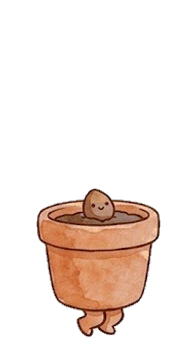
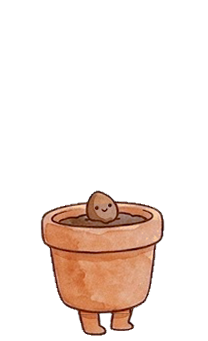
Pianty: passo generato muovendo solo le gambe (7 immagini per stadio)
Il foglio di Gemini aveva un ciclo a scatti (gambe aperte/chiuse) e la rosetta cambiava da un
fotogramma all'altro. Ora si usa il disegno fermo di ogni stadio e tools/cutout_pianty.py genera 6
fotogrammi di passo muovendo solo le gambe: la pianta resta identica, il piede appoggiato scivola
indietro e quello che avanza si solleva. Pet.stepInterval permette un passo a 15 fotogrammi al secondo;
tolleranza di 5 ms nel cambio fotogramma per non cadere sul bordo dei tick del timer.

Changed region(s): [[0.1837, 0.5279, 0.8265, 0.9971]]

diff --git a/Sources/Bonsy/Pet.swift b/Sources/Bonsy/Pet.swift
@@ -26,6 +26,8 @@ struct Pet: Equatable {
     var walks: Bool = false
     /// Per chi cammina: la sequenza di immagini (indici) da ripetere mentre cammina.
     var walkFrames: [Int] = [1, 2]
+    /// Per chi cammina: secondi tra un fotogramma del passo e il successivo.
+    var stepInterval: TimeInterval = 0.2
     /// Per chi cammina: la posa mentre parla (nil = resta ferma nella posa a riposo).
     var talkFrame: Int? = nil
     /// Le immagini guardano a destra: quando va a sinistra vengono specchiate.
@@ -91,24 +93,26 @@ struct Pet: Equatable {
         iconCrop: nil
     )
 
-    /// Una succulenta che cresce come Bonsy e ne condivide le frasi, ma ha due piedini e cammina:
-    /// per ognuno dei 5 stadi ci sono 5 fotogrammi (fermo, passo, passaggio, passo, passaggio).
+    /// Una succulenta che cresce come Bonsy e ne condivide le frasi, ma ha due piedini e cammina.
+    /// Per ognuno dei 5 stadi ci sono 7 immagini: la prima è "fermo", le altre 6 sono il ciclo dei passi
+    /// (generato da tools/cutout_pianty.py muovendo solo le gambe, così la pianta resta identica).
     static let pianty = Pet(
         id: "pianty",
         name: "Pianty",
-        imageResources: (1...5).flatMap { stage in (1...5).map { "pianty_stage\(stage)_\($0)" } },
-        size: NSSize(width: 80, height: 140),
+        imageResources: (1...5).flatMap { stage in (1...7).map { "pianty_stage\(stage)_\($0)" } },
+        size: NSSize(width: 84, height: 141),
         quotesResource: "frasi_bonsy",
         quotesUserFile: "frasi_bonsy.txt",
         fallbackQuote: "Un passo alla volta: anch'io sono partito da un seme.",
         greeting: "Ciao! Sono Pianty. Cresciamo insieme, con calma.",
         shadowWidthFraction: 0.6,
-        groundFraction: 0.0146,
+        groundFraction: 0.0176,
         iconCrop: nil,
         walks: true,
-        walkFrames: [1, 2, 3, 4],   // passo, passaggio, passo, passaggio
+        walkFrames: [1, 2, 3, 4, 5, 6],
+        stepInterval: 1.0 / 15,     // 6 fotogrammi in 0,4 s: il piede appoggiato non scivola a 42 pt/s
         facesRight: true,           // i passi sono disegnati verso destra: a sinistra si specchia
-        framesPerStage: 5
+        framesPerStage: 7
     )
 
     /// Prova: stesse cose di Spidy (stesse frasi), ma cammina per lo schermo.

diff --git a/Sources/Bonsy/Walker.swift b/Sources/Bonsy/Walker.swift
@@ -14,7 +14,9 @@ final class Walker {
 
     // Camminata
     private static let speed: CGFloat = 42                       // punti al secondo
-    private static let stepInterval: TimeInterval = 0.2          // cambio fotogramma del passo
+    /// Tolleranza (in secondi) sul cambio di fotogramma: con un passo di esattamente due tick del timer
+    /// (1/30 s ciascuno) il cambio cadrebbe sul bordo e a volte durerebbe uno o tre tick invece di due.
+    private static let stepSlack: TimeInterval = 0.005
     private static let edgeMargin: CGFloat = 6
     private static let walkDuration: ClosedRange<TimeInterval> = 3...8
     private static let restDuration: ClosedRange<TimeInterval> = 4...10
@@ -234,7 +236,7 @@ final class Walker {
         // Passi: i fotogrammi del cammino si ripetono in ciclo.
         stepClock += dt
         let frames = pet.walkFrames
-        petWindow.setPose(frames[Int(stepClock / Self.stepInterval) % frames.count])
+        petWindow.setPose(frames[Int((stepClock + Self.stepSlack) / pet.stepInterval) % frames.count])
 
         if now >= until {
             state = .resting(until: now.addingTimeInterval(.random(in: Self.restDuration)))

diff --git a/tools/cutout_pianty.py b/tools/cutout_pianty.py
@@ -1,23 +1,26 @@
 #!/usr/bin/env python3
-"""Ritaglia Pianty che cammina: assets/pianty/sheets/stage1..5.png -> assets/pianty/stage{S}_{F}.png
+"""Pianty che cammina: assets/pianty/sheets/stage1..5.png -> assets/pianty/stage{S}_{F}.png
 
-Ogni tavola ha un solo stadio di crescita con 5 fotogrammi in fila (fermo, passo, passaggio, passo,
-passaggio). Qui si tolgono lo sfondo bianco e le sacche di bianco fra le foglie, e si porta tutto
-sulla stessa scala e sullo stesso colore:
+Ogni tavola ha un solo stadio di crescita (un vaso con due piedini). Di ogni tavola si usa il
+primo fotogramma, "fermo". Da lì:
 
-* la scala si ricava dal vaso (larghezza e altezza dal bordo ai piedi), con lo stadio 5 come
-  riferimento: Gemini disegna il vaso un po' diverso da una tavola all'altra;
-* il colore della terracotta è riportato su un valore unico (un guadagno per canale per tavola);
-* tutti i 25 fotogrammi stanno su una tela comune, appoggiati sui piedi e centrati sul vaso,
-  così cambiando fotogramma o stadio nulla "salta".
+1. si tolgono lo sfondo bianco e le sacche di bianco fra le foglie;
+2. si portano tutti gli stadi sulla stessa scala (dal vaso, con lo stadio 5 come riferimento: Gemini
+   disegna il vaso un po' diverso da una tavola all'altra) e sullo stesso colore di terracotta;
+3. si genera il passo muovendo solo le gambe: la pianta e il vaso sono sempre lo stesso disegno, quindi
+   le foglie non cambiano da un fotogramma all'altro.
+
+Per ogni stadio escono 7 immagini: _1 = fermo, _2.._7 = i 6 fotogrammi del ciclo di passi.
+Tutte hanno la stessa tela, appoggiata sui piedi e centrata sul vaso.
 """
 from collections import deque
+import math
 import numpy as np
 from PIL import Image
 
 SHEET = "assets/pianty/sheets/stage{}.png"
 OUT = "assets/pianty/stage{}_{}.png"
-STAGES, FRAMES = 5, 5
+STAGES, SHEET_FRAMES = 5, 5
 REFERENCE_STAGE = 5
 BG_MIN = 246          # sopra questo (canale minimo) un pixel è sfondo bianco
 HALO_MIN = 205        # lungo il bordo, i pixel più chiari di così diventano trasparenti
@@ -25,6 +28,18 @@ MIN_POCKET = 40       # sacche di bianco più piccole di così sono riflessi, no
 PAD = 4
 TERRACOTTA = np.array([216.0, 144.0, 104.0])   # colore comune del vaso
 
+# Il passo (in pixel dell'immagine). Va con Walker: a 42 pt/s e ~0,4 pt per pixel il corpo avanza di
+# circa 105 px/s, e con un ciclo di 6 fotogrammi a 15 al secondo il piede appoggiato non scivola.
+CYCLE = 6
+STRIDE = 10.0         # quanto il piede va avanti e indietro rispetto al vaso
+LIFT = 4.0            # quanto si solleva il piede mentre va avanti
+TILT = 1.5            # gradi di dondolio del vaso
+BOB = 1.0             # rimbalzo del vaso
+EXT = 10              # la gamba si prolunga sotto il vaso, così non resta un buco quando si muove
+EXTRA = 24            # spazio in più nella tela di lavoro
+
+
+# ----- ritaglio dallo sfondo bianco -----
 
 def dilate(mask, n):
     out = mask.copy()
@@ -79,7 +94,7 @@ def load_sheet(path):
     rgb = np.asarray(Image.open(path).convert("RGB")).astype(np.float32)
     minc = rgb.min(axis=2)
     frames = []
-    for gx0, gx1 in column_groups(minc, FRAMES):
+    for gx0, gx1 in column_groups(minc, SHEET_FRAMES):
         x0, x1 = max(gx0 - 6, 0), min(gx1 + 6, rgb.shape[1] - 1)
         block = rgb[:, x0:x1 + 1, :]
         bmin = minc[:, x0:x1 + 1]
@@ -99,6 +114,7 @@ def load_sheet(path):
             seen |= comp
             if comp.sum() >= MIN_POCKET:
                 bg |= comp
+
         # Alone: i pixel chiari lungo il bordo sono sfumature fra il tratto scuro e il bianco, non disegno.
         halo = ~bg & dilate(bg, 2) & (bmin > HALO_MIN)
         bg = bg | halo
@@ -136,6 +152,104 @@ def to_rgba(f, gain):
     return np.dstack([color, alpha * 255]).astype(np.uint8)
 
 
+# ----- il passo -----
+
+def runs(row, thr=60):
+    cols = np.where(row > thr)[0]
+    out = []
+    if len(cols) == 0:
+        return out
+    s = p = cols[0]
+    for c in cols[1:]:
+        if c - p > 1:
+            out.append((int(s), int(p)))
+            s = c
+        p = c
+    out.append((int(s), int(p)))
+    return out
+
+
+def find_legs(arr):
+    """Ritorna (riga più bassa, prima riga con due gambe separate, colonna che le divide)."""
+    a = arr[..., 3]
+    bottom = int(np.where((a > 80).any(axis=1))[0].max())
+    y = bottom - 4
+    while y > 0 and len(runs(a[y])) >= 2:
+        y -= 1
+    y0 = y + 1
+    r = runs(a[y0 + 4])
+    return bottom, y0, (r[0][1] + r[-1][0]) / 2.0
+
+
+def leg_images(arr, y0, bottom, split):
+    h, w = arr.shape[:2]
+    out = []
+    for side in (0, 1):
+        seg = arr[y0:bottom + 1].copy()
+        cols = np.arange(w)[None, :]
+        mask = (cols < split) if side == 0 else (cols >= split)
+        seg[~np.broadcast_to(mask, seg.shape[:2])] = 0
+        xs = np.where((seg[..., 3] > 0).any(axis=0))[0]
+        x0, x1 = int(xs.min()), int(xs.max())
+        seg = seg[:, x0:x1 + 1]
+        img = np.vstack([np.repeat(seg[:1], EXT, axis=0), seg])   # prolungata verso l'alto, sotto il vaso
+        top_cols = np.where(seg[:4, :, 3] > 60)[1]
+        out.append((Image.fromarray(img, "RGBA"), x0, float(top_cols.mean()) + x0))
+    return out
+
+
+def foot(q):
+    """q in [0,1): fase della gamba. Ritorna (spostamento in x, sollevamento)."""
+    if q < 0.5:                      # appoggiata: il piede scivola indietro rispetto al corpo
+        u = q / 0.5
+        return STRIDE * (1 - 2 * u), 0.0
+    u = (q - 0.5) / 0.5              # in volo: va avanti, sollevato
+    e = 0.5 - 0.5 * math.cos(math.pi * u)
+    return -STRIDE + 2 * STRIDE * e, LIFT * math.sin(math.pi * u)
+
+
+def shear_leg(limg, dx, lift):
+    """Sposta il piede di dx tenendo ferma la cima (taglio orizzontale: la suola resta piatta) e lo
+    solleva comprimendo la gamba in verticale."""
+    w, h = limg.size
+    hip = EXT
+    length = max(h - hip, 1)
+    s = length / max(length - lift, 1)
+    pad = 24
+    big = Image.new("RGBA", (w + 2 * pad, h + 2 * pad), (0, 0, 0, 0))
+    big.paste(limg, (pad, pad))
+    hy = hip + pad
+    coeffs = (1.0, -dx / length, dx * hy / length, 0.0, s, hy - hy * s)
+    return big.transform(big.size, Image.AFFINE, coeffs, resample=Image.BICUBIC), pad
+
+
+def walk_frame(arr, k):
+    h, w = arr.shape[:2]
+    bottom, y0, split = find_legs(arr)
+    legs = leg_images(arr, y0, bottom, split)
+    body = arr.copy()
+    body[y0:] = 0
+    body = Image.fromarray(body, "RGBA")
+
+    canvas = Image.new("RGBA", (w, h), (0, 0, 0, 0))
+    for idx, (limg, x0, _hip_x) in enumerate(legs):
+        q = (k / CYCLE + (0.5 if idx == 1 else 0.0)) % 1.0
+        dx, lift = foot(q)
+        sheared, pad = shear_leg(limg, dx, lift)
+        layer = Image.new("RGBA", (w, h), (0, 0, 0, 0))
+        layer.paste(sheared, (int(round(x0 - pad)), int(round(y0 - EXT - pad))), sheared)
+        canvas = Image.alpha_composite(canvas, layer)
+
+    phi = 2 * math.pi * k / CYCLE
+    pivot = ((legs[0][2] + legs[1][2]) / 2.0, bottom)
+    tilted = body.rotate(TILT * math.sin(phi), resample=Image.BICUBIC, center=pivot)
+    layer = Image.new("RGBA", (w, h), (0, 0, 0, 0))
+    layer.paste(tilted, (0, -int(round(BOB * abs(math.sin(phi))))), tilted)
+    return Image.alpha_composite(canvas, layer)
+
+
+# ----- tutto insieme -----
+
 def main():
     sheets = {s: load_sheet(SHEET.format(s)) for s in range(1, STAGES + 1)}
 
@@ -144,7 +258,7 @@ def main():
     ref_w = np.median([f["pot_w"] for f in ref])
     ref_h = np.median([f["bottom"] - f["rim"] for f in ref])
 
-    # Colore: mediana della terracotta di ogni tavola -> guadagno verso il colore comune.
+    # Scala dal vaso; colore: mediana della terracotta di ogni tavola -> colore comune.
     scales, gains = {}, {}
     for s, frames in sheets.items():
         w = np.median([f["pot_w"] for f in frames])
@@ -153,42 +267,56 @@ def main():
         samples = []
         for f in frames:
             rows = np.arange(f["block"].shape[0])[:, None]
-            m = f["terra"] & (rows >= f["rim"] - 25) & f["fg"]
+            m = f["terra"] & (f["rim"] - 25 <= rows) & f["fg"]
             samples.append(f["block"][m])
         median = np.median(np.concatenate(samples), axis=0)
         gains[s] = TERRACOTTA / median
         print(f"stadio {s}: vaso {w:.0f}x{h:.0f} -> scala {scales[s]:.3f}, "
               f"colore {median.astype(int).tolist()} -> {TERRACOTTA.astype(int).tolist()}")
 
-    # Ritaglio, scala e misure rispetto ai piedi (riga più bassa) e al centro del vaso.
-    images = {}
+    # Il fotogramma "fermo" di ogni stadio, in scala, su una tela di lavoro comune (piedi e centro del vaso).
+    rests = {}
     for s, frames in sheets.items():
-        for i, f in enumerate(frames, 1):
-            rgba = Image.fromarray(to_rgba(f, gains[s]), "RGBA")
-            k = scales[s]
-            rgba = rgba.resize((round(rgba.width * k), round(rgba.height * k)), Image.LANCZOS)
-            a = np.asarray(rgba)[..., 3]
-            ys, xs = np.where(a > 5)
-            solid = np.where((a > 80).any(axis=1))[0]
-            ground = int(solid.max())
-            cx = f["cx"] * k
-            images[(s, i)] = dict(
-                img=rgba, ground=ground, cx=cx,
-                up=ground - ys.min(), down=max(ys.max() - ground, 0),
-                left=cx - xs.min(), right=xs.max() - cx,
-            )
+        f = frames[0]
+        rgba = Image.fromarray(to_rgba(f, gains[s]), "RGBA")
+        k = scales[s]
+        rgba = rgba.resize((round(rgba.width * k), round(rgba.height * k)), Image.LANCZOS)
+        a = np.asarray(rgba)[..., 3]
+        ground = int(np.where((a > 80).any(axis=1))[0].max())
+        rests[s] = (rgba, ground, f["cx"] * k)
 
-    up = int(max(v["up"] for v in images.values())) + PAD
-    down = int(max(v["down"] for v in images.values())) + PAD
-    half = int(np.ceil(max(max(v["left"], v["right"]) for v in images.values()))) + PAD
+    half0 = int(max(max(c, img.width - c) for img, _, c in rests.values())) + EXTRA
+    up0 = int(max(g for _, g, _ in rests.values())) + EXTRA
+    down0 = int(max(img.height - g for img, g, _ in rests.values())) + EXTRA
+    cw0, ch0 = 2 * half0, up0 + down0 + 1
+
+    frames_out = {}
+    for s, (img, ground, cx) in rests.items():
+        canvas = Image.new("RGBA", (cw0, ch0), (0, 0, 0, 0))
+        canvas.paste(img, (int(round(half0 - cx)), int(up0 - ground)), img)
+        arr = np.asarray(canvas).copy()
+        frames_out[s] = [canvas] + [walk_frame(arr, k) for k in range(CYCLE)]
+
+    # Misure finali: l'unione di tutti i fotogrammi, con un piccolo margine.
+    top = bottom = left = right = None
+    for fs in frames_out.values():
+        for f in fs:
+            ys, xs = np.where(np.asarray(f)[..., 3] > 5)
+            t, b, l, r = ys.min(), ys.max(), xs.min(), xs.max()
+            top = t if top is None else min(top, t)
+            bottom = b if bottom is None else max(bottom, b)
+            left = l if left is None else min(left, l)
+            right = r if right is None else max(right, r)
+    half = int(math.ceil(max(half0 - left, right - half0 + 1))) + PAD
+    up = up0 - top + PAD
+    down = max(bottom - up0, 0) + PAD
     cw, ch = 2 * half, up + down + 1
     print(f"formato comune: {cw}x{ch}  (piedi a riga {up}, {(down + 1) / ch:.4f} dal fondo)")
 
-    for (s, i), v in images.items():
-        canvas = Image.new("RGBA", (cw, ch), (0, 0, 0, 0))
-        canvas.paste(v["img"], (int(round(half - v["cx"])), int(up - v["ground"])), v["img"])
-        canvas.save(OUT.format(s, i))
-    print(f"Scritti {len(images)} fotogrammi: assets/pianty/stage1_1.png ... stage5_5.png")
+    for s, fs in frames_out.items():
+        for i, f in enumerate(fs, 1):
+            f.crop((half0 - half, up0 - up, half0 + half, up0 - up + ch)).save(OUT.format(s, i))
+    print(f"Scritti {STAGES * (CYCLE + 1)} fotogrammi: assets/pianty/stage1_1.png ... stage5_{CYCLE + 1}.png")
 
 
 if __name__ == "__main__":

diff --git a/README.md b/README.md
@@ -58,9 +58,10 @@ a cui si trovano. Dal menu *Movimento ▸ Fermo* smettono di camminare e restano
 li rimette in cammino. Se le immagini guardano a destra (come il porcellino), vengono specchiate quando
 vanno a sinistra.
 
-Pianty cammina *e* cresce: per ognuno dei 5 stadi ci sono 5 fotogrammi (fermo, passo, passaggio, passo,
-passaggio), quindi mentre il focus avanza lo stadio cambia con una dissolvenza e il passo continua senza
-interruzioni. Non mangia e non dorme.
+Pianty cammina *e* cresce: per ognuno dei 5 stadi ci sono 7 immagini (fermo + 6 fotogrammi del passo, a 15
+al secondo), quindi mentre il focus avanza lo stadio cambia con una dissolvenza e il passo continua senza
+interruzioni. I passi non sono disegnati uno per uno: `tools/cutout_pianty.py` parte dal disegno fermo di ogni
+stadio e muove solo le gambe, così la pianta è identica in tutti i fotogrammi. Non mangia e non dorme.
 
 Il Porcellino ha un ciclo di passi a 4 fotogrammi, una posa con le orecchie che saltellano mentre
 parla, e le sue frasi in `assets/frasi_porcellino.txt`. Ogni tanto, in momenti casuali mentre gira per lo
@@ -129,8 +130,8 @@ assets/
   bonsy/original.png    immagine di partenza di Bonsy (5 stadi)
   bonsy/stage1..5.png   stadi ritagliati (generati da tools/cutout_bonsy.py)
   pianty/original.png   immagine di partenza di Pianty senza piedini (5 stadi, non più usata dal ritaglio)
-  pianty/sheets/stage1..5.png   le tavole di Pianty che cammina: un foglio per stadio, 5 fotogrammi in fila
-  pianty/stage{1..5}_{1..5}.png   i 25 fotogrammi ritagliati e allineati sui piedi (tools/cutout_pianty.py)
+  pianty/sheets/stage1..5.png   le tavole di Pianty con i piedini (un foglio per stadio; si usa il primo fotogramma)
+  pianty/stage{1..5}_{1..7}.png   i 35 fotogrammi (_1 fermo, _2.._7 passo), generati da tools/cutout_pianty.py
   original.png, spidy.png   immagine di Spidy e ritaglio (tools/cutout.py)
   bubble_original.png, bubble.png   fumetto e ritaglio (tools/cutout_bubble.py)
   frasi_bonsy.txt, frasi.txt, frasi_porcellino.txt   frasi incluse nell'app
@@ -149,5 +150,5 @@ build.sh                compila e crea build/Bonsy.app
 Un personaggio è una riga in `Pet.swift` (con `pickedResource` può avere un disegno diverso mentre lo si trascina): immagini (una per stadio, tutte sullo stesso formato e
 allineate sulla linea di terra), file delle frasi, dimensione della finestra. Un solo stadio = personaggio
 fisso, più stadi = cresce con il timer; con `walks: true` le immagini sono pose e il personaggio
-cammina; con `framesPerStage` ogni stadio ha il suo gruppo di pose (cresce e cammina, come Pianty). Per ritagliare un'immagine su sfondo bianco si può partire da
+cammina; con `framesPerStage` ogni stadio ha il suo gruppo di pose (cresce e cammina, come Pianty); `stepInterval` regola la velocità del passo. Per ritagliare un'immagine su sfondo bianco si può partire da
 `tools/cutout.py`.
